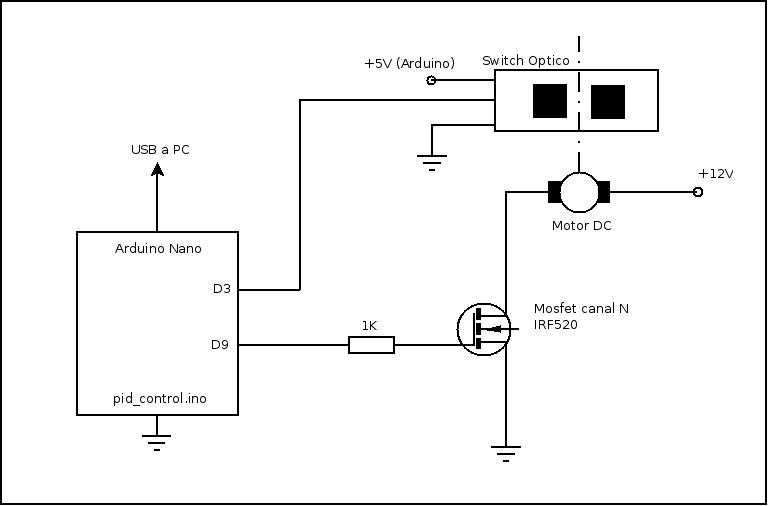
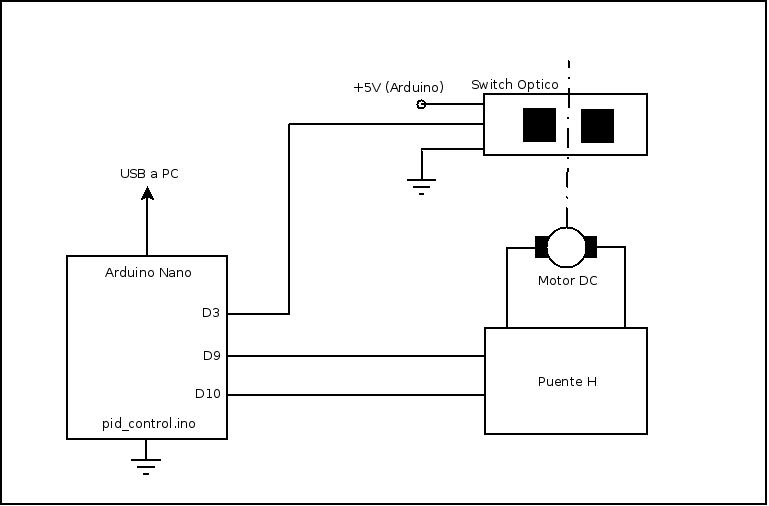
fix asimetria con puente H

diff --git a/README.md b/README.md
@@ -18,10 +18,6 @@ Circuito :
 
 ![circuito](circuito.jpg)
 
-Nota : 
-Este driver, con un solo transistor, produce una asimetria en el control al no
-poder invertir la polaridad del motor.
-
 Soporte del motor : 
 
 ![soporte](soporte/ensamblaje.jpg)
